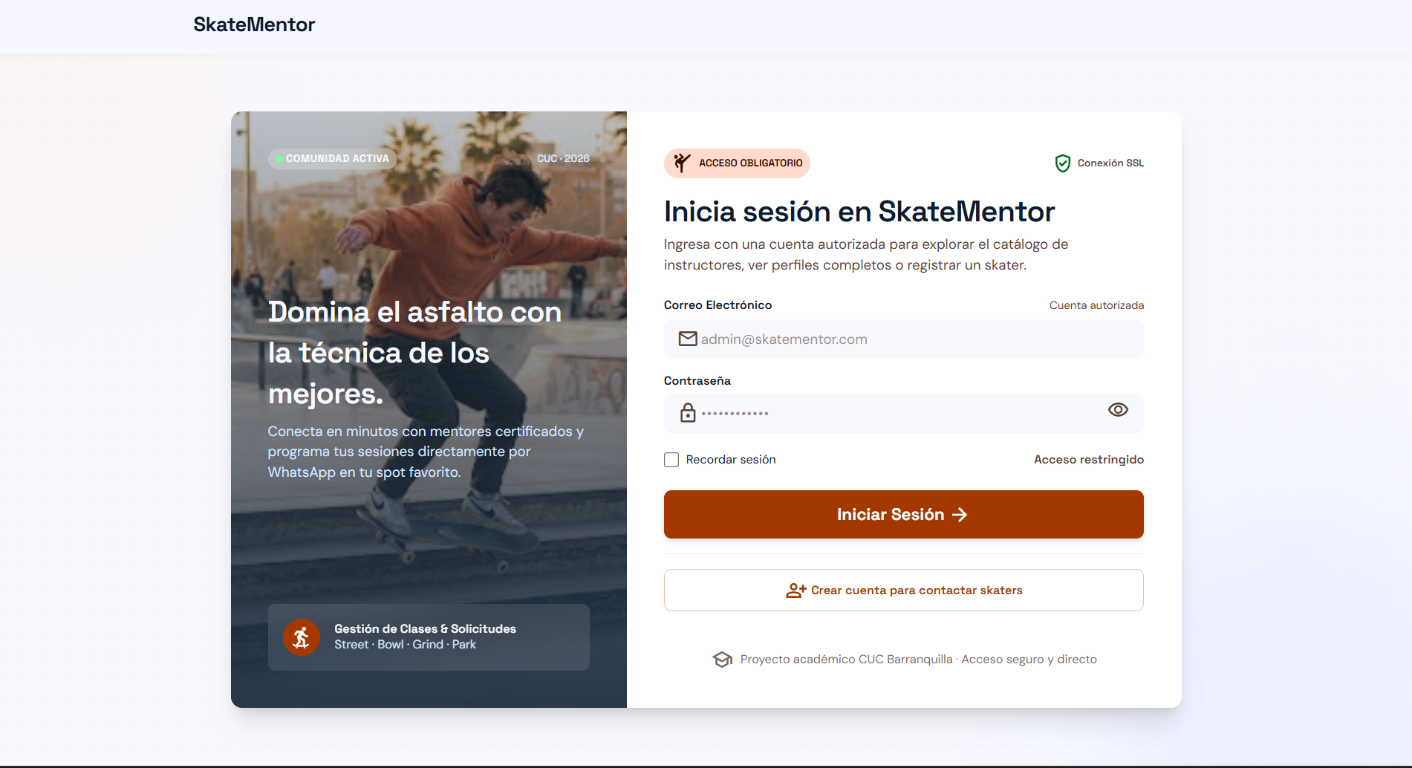
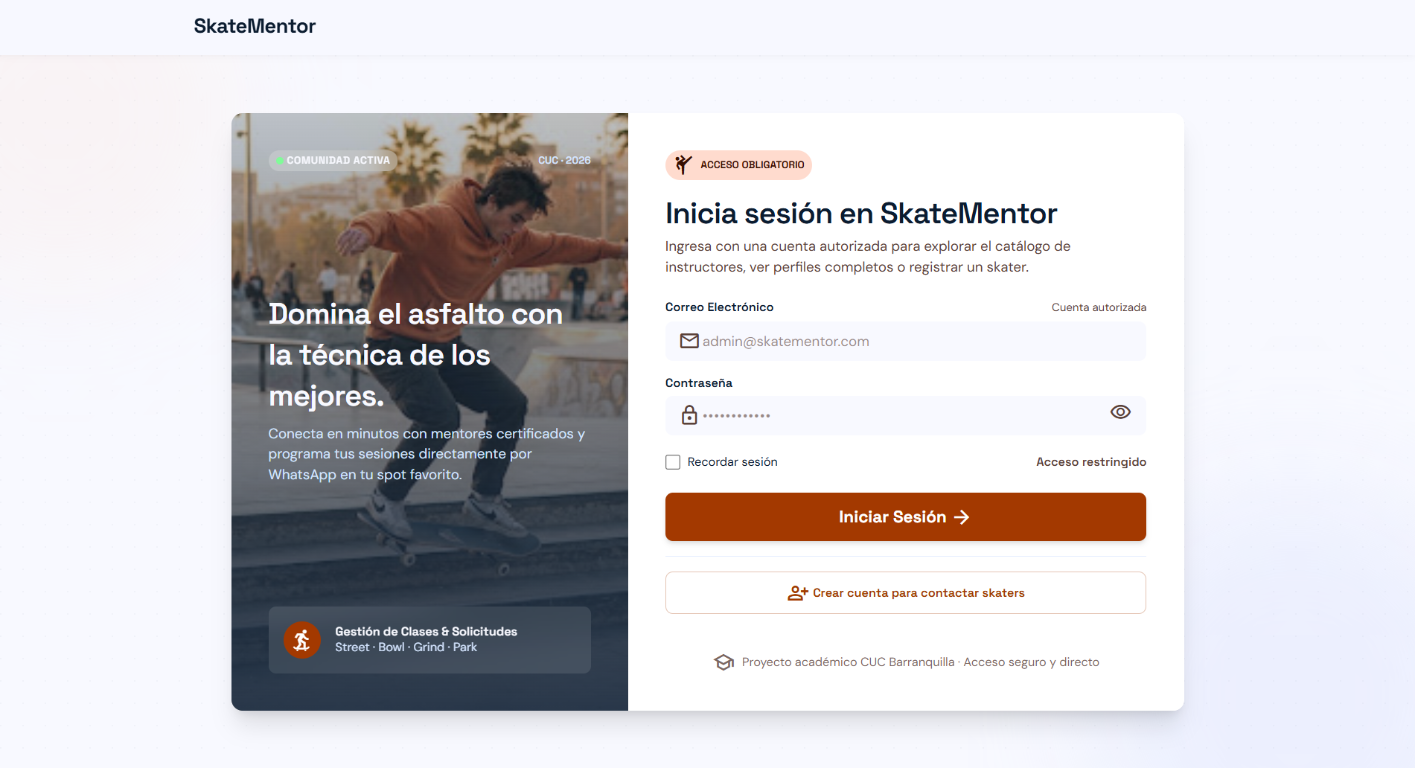
último retoque readme

diff --git a/README.md b/README.md
@@ -112,6 +112,14 @@ npm run build
 
 ![Formulario para publicar un nuevo skater](docs/evidencias/03-nuevo-skater.png)
 
+### Catálogo con perfiles disponibles
+
+![Tarjetas de skaters disponibles](docs/evidencias/06-catalogo-tarjetas.png)
+
+### Perfil completo
+
+![Perfil completo de una skater](docs/evidencias/07-perfil-completo.png)
+
 ## Equipo
 
 | Integrante | Programa |
